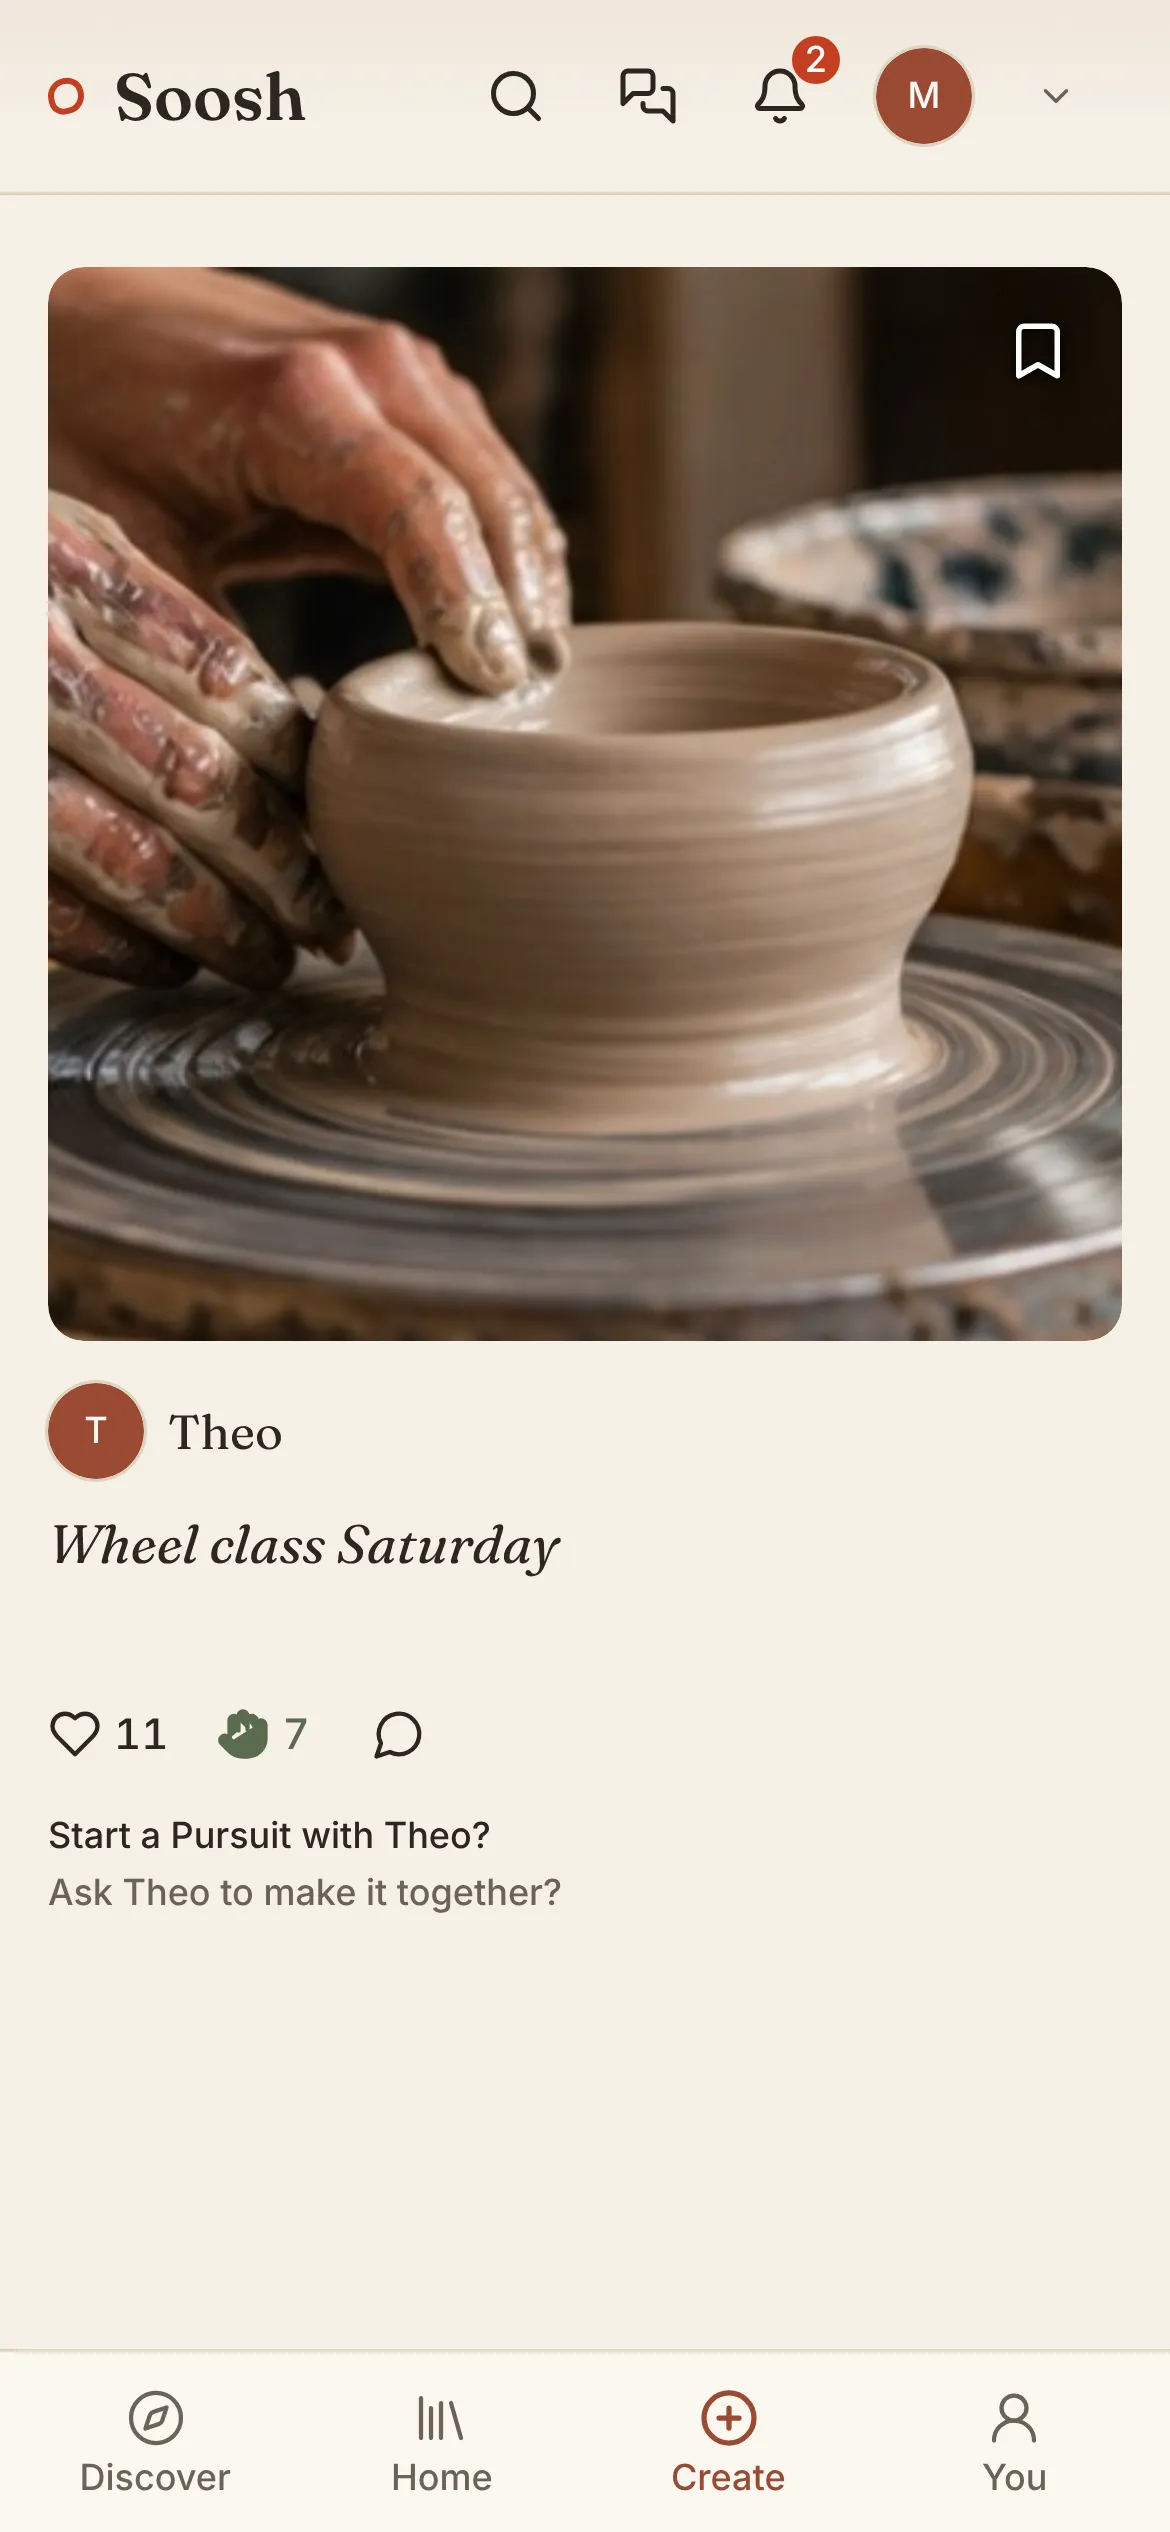
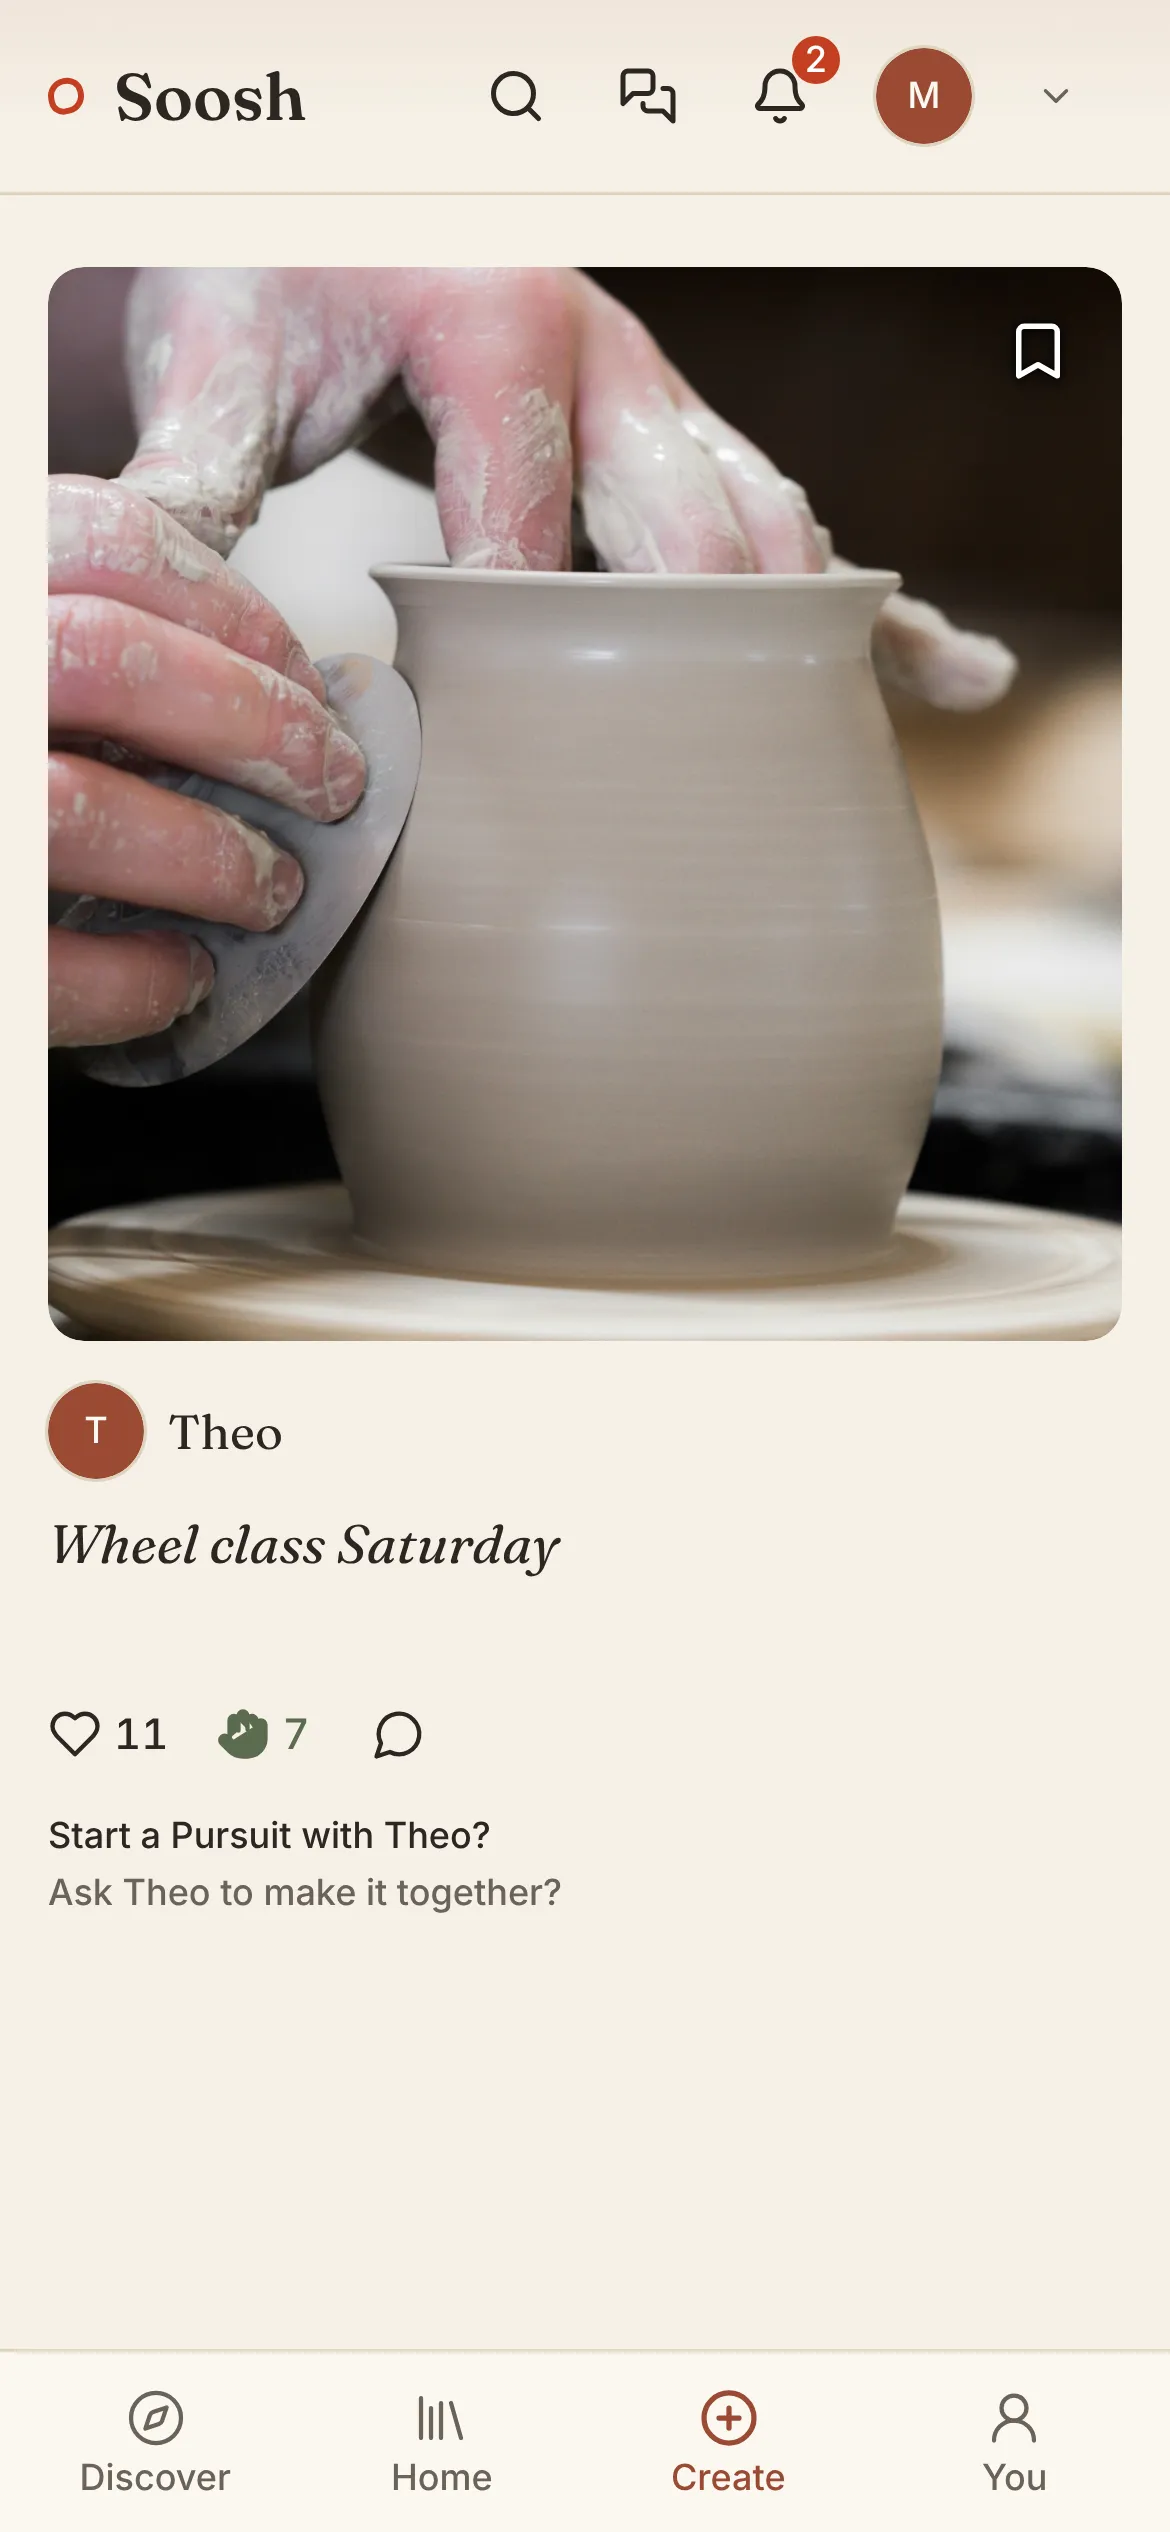
Landing screens: real Unsplash photos for step-save and come-along, credits
Claude-Session: https://claude.ai/code/session_01PqgTSnrfof1VxRF1nNL3km

diff --git a/public/landing/README.md b/public/landing/README.md
@@ -29,12 +29,19 @@ as real members. The "See who's on Soosh" section stays real-only.
 
 ## Photo credits
 
-The example screens use AI-generated images, by the owner's decision for these
-example screens only (the earlier "no AI images" rule does not apply here).
-They are not committed; only the screens are. Replace them with real photos
-when available.
+The example screens mix real photos with AI-generated ones, by the owner's
+decision for these example screens only (the earlier "no AI images" rule does
+not apply to the AI-generated ones). Photos are not committed; only the screens
+are.
 
-Made with gpt-image-2.5-sunburst via ElevenLabs (portrait 3:4, 1536 x 2048):
+Real photos (Unsplash license), supplied by the owner:
+
+| Photo | Screen | Source | Photographer |
+|---|---|---|---|
+| `nick-bouldering` | `step-save` | Unsplash | Name to be added by the owner (not recorded when supplied) |
+| `theo-wheel` | `come-along` | Unsplash | Name to be added by the owner (not recorded when supplied) |
+
+AI-generated with gpt-image-2.5-sunburst via ElevenLabs (portrait 3:4, 1536 x 2048):
 
 | Photo | Credit |
 |---|---|
@@ -43,22 +50,13 @@ Made with gpt-image-2.5-sunburst via ElevenLabs (portrait 3:4, 1536 x 2048):
 | `maya-film` | AI-generated with gpt-image-2.5-sunburst via ElevenLabs (printed 35mm photos) |
 | `maya-bouldering` | AI-generated with gpt-image-2.5-sunburst via ElevenLabs |
 
-Visible on a landing screen, still from the owner's collage (tool not
-recorded; cropped to about 400 to 630 px wide, so they look soft). To be
-regenerated:
-
-| Photo | Screen | Share of that screen | Credit |
-|---|---|---|---|
-| `nick-bouldering` | `step-save` | about 39% | AI-generated, from the collage |
-| `theo-wheel` | `come-along` | about 39% | AI-generated, from the collage |
-
 Unused: these example photos do not appear on any landing screen (checked by
 swapping each for a solid color and capturing all seven screens). They are not
-needed and are not being regenerated:
+needed and are not being replaced:
 
 | Photo | Note |
 |---|---|
-| `nick-cutting-board` | Unused. Only on Nick's other Moments, not on any screen |
+| `nick-cutting-board` | Unused. Not on any screen |
 | `nick-guitar` | Unused |
 | `theo-ramen` | Unused |
 | `theo-sketchbook` | Unused |

diff --git a/landing-preview/README.md b/landing-preview/README.md
@@ -17,9 +17,9 @@ available. Record the credit of each in `public/landing/README.md`.
 | `maya-running.jpg` | A riverside running path, no runner's face |
 | `maya-film.jpg` | A small stack of printed 35mm film photos on a wooden table, no text, no logos |
 | `maya-bouldering.jpg` | A beginner bouldering wall with colored holds |
-| `nick-bouldering.jpg` | A climber on a bouldering problem, seen from behind or far away |
+| `nick-bouldering.jpg` | A bouldering wall with colored holds (real Unsplash photo, no people) |
 | `nick-cutting-board.jpg` | A walnut cutting board (unused on any landing screen) |
 | `nick-guitar.jpg` | An acoustic guitar neck and hand, no face (unused on any landing screen) |
-| `theo-wheel.jpg` | Hands shaping clay on a pottery wheel, no face |
+| `theo-wheel.jpg` | Hands shaping clay on a pottery wheel, no face (real Unsplash photo) |
 | `theo-ramen.jpg` | A bowl of homemade ramen (unused on any landing screen) |
 | `theo-sketchbook.jpg` | A sketchbook with a café sketch (unused on any landing screen) |
